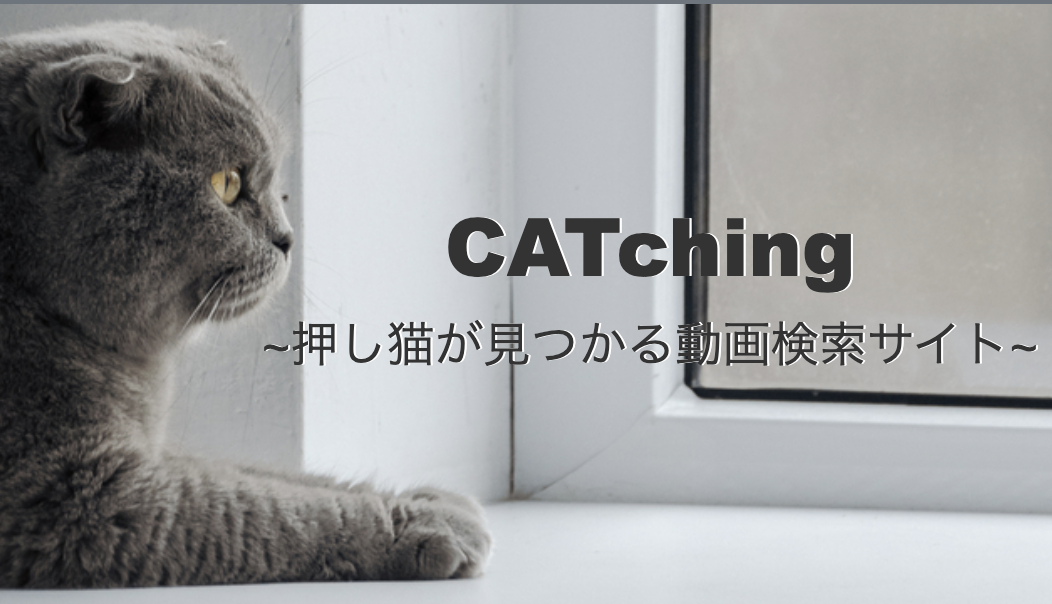
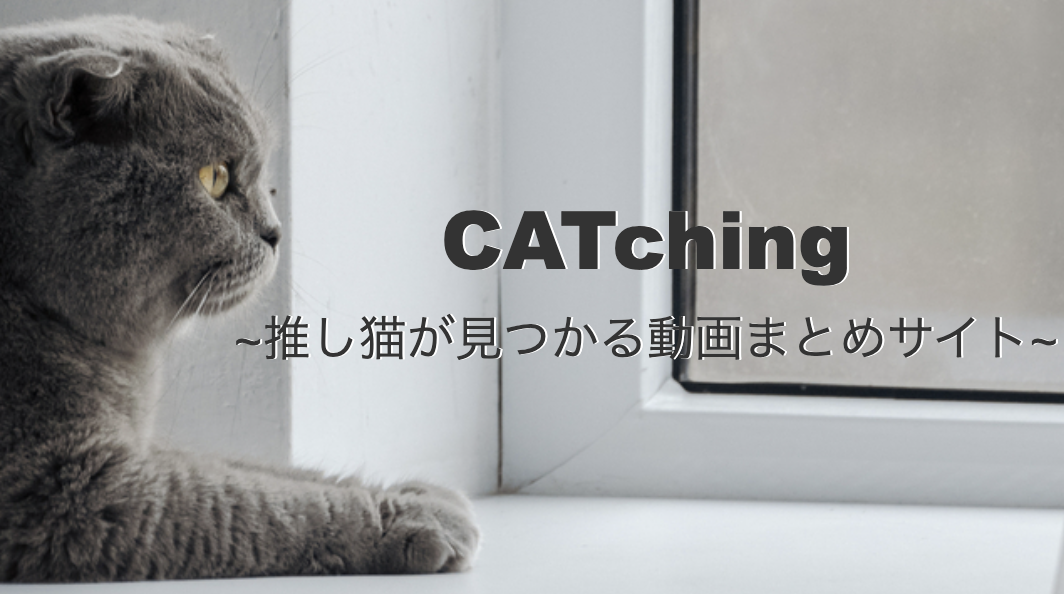
FIX:誤字修正 FIX:metaタグの情報修正 FIX:説明文の字数修正 FIX:フッター位置のCSS修正

diff --git a/app/assets/stylesheets/header.scss b/app/assets/stylesheets/header.scss
@@ -14,6 +14,6 @@
   color: #333333;
   text-shadow:1px 0 white;
   h1{
-    font-family: "Arial Black", monospace;
+    font-family: "Arial Black", HiraKakuProN-W6, impact, monospace;
   }
 }

diff --git a/app/assets/stylesheets/application.scss b/app/assets/stylesheets/application.scss
@@ -28,7 +28,3 @@ body{
   flex-flow: column;
   min-height: 100vh;
 }
-
-main{
-  flex: 1;
-}

diff --git a/app/assets/stylesheets/footer.scss b/app/assets/stylesheets/footer.scss
@@ -1,3 +1,7 @@
+footer{
+  margin-top: auto;
+}
+
 footer .row{
   height: 100px;
   p{

diff --git a/app/helpers/application_helper.rb b/app/helpers/application_helper.rb
@@ -2,11 +2,11 @@ module ApplicationHelper
   def default_meta_tags
     {
       site: 'CATching',
-      title: '押しネコが見つかる動画検索サイト',
+      title: '推し猫が見つかる動画まとめサイト',
       reverse: true,
       charset: 'utf-8',
-      description: '押しネコが見つかる動画検索サイト',
-      keywords: '猫, 動画, 検索',
+      description: '動画まとめサイト',
+      keywords: '猫, ネコ, ねこ, 動画, まとめ',
       canonical: request.original_url,
       separator: '|',
       icon: [

diff --git a/README.md b/README.md
@@ -1,6 +1,6 @@
 # CATching
 ## サービス概要
-Youtubeに上げられている猫動画をまとめた検索サイト
+Youtubeに上げられている猫動画をまとめたサイト
 毛色や性格、足の長さなどで好みの猫を探しやすくしている
 
 ## メインユーザー
